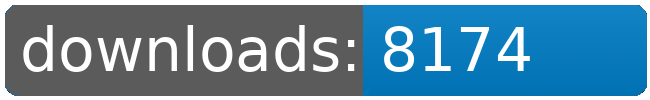
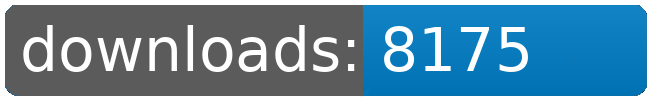
dl log written

Changed region(s): [[0.7692, 0.27, 0.8308, 0.72]]

diff --git a/README.md b/README.md
@@ -21,8 +21,8 @@
 		<td>8107</td>
 		<td>8131</td>
 		<td>8157</td>
-		<td>8174</td>
-		<td>+ 17</td>
+		<td>8175</td>
+		<td>+ 18</td>
 	</tr>
 	<tr>
 		<td>Factory.Outlets</td>
@@ -120,8 +120,8 @@
 		<td></td>
 		<td></td>
 		<td></td>
-		<td>60718</td>
-		<td>138</td>
+		<td>60719</td>
+		<td>139</td>
 	</tr>
 </table>
 </sub></sup>
@@ -157,8 +157,8 @@
 		<td>8107</td>
 		<td>8131</td>
 		<td>8157</td>
-		<td>8174</td>
-		<td>+ 17</td>
+		<td>8175</td>
+		<td>+ 18</td>
 	</tr>
 	<tr>
 		<td>Louise.Conglomerate.Shipyards</td>
@@ -245,8 +245,8 @@
 		<td></td>
 		<td></td>
 		<td></td>
-		<td>60718</td>
-		<td>138</td>
+		<td>60719</td>
+		<td>139</td>
 	</tr>
 </table>
 </sub></sup>
